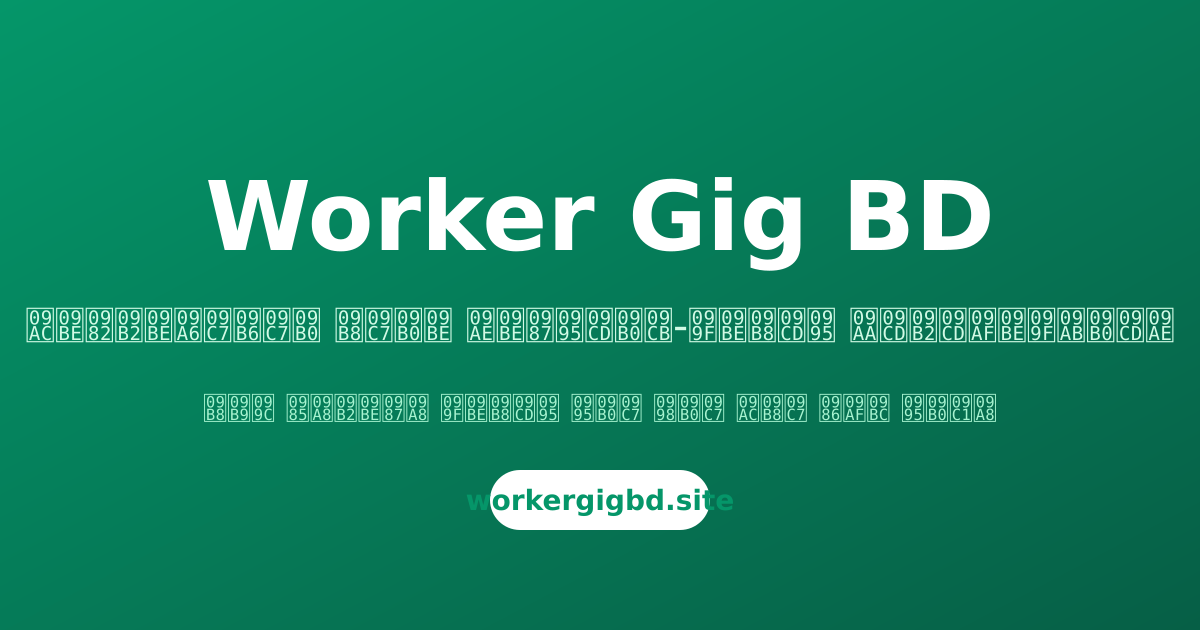
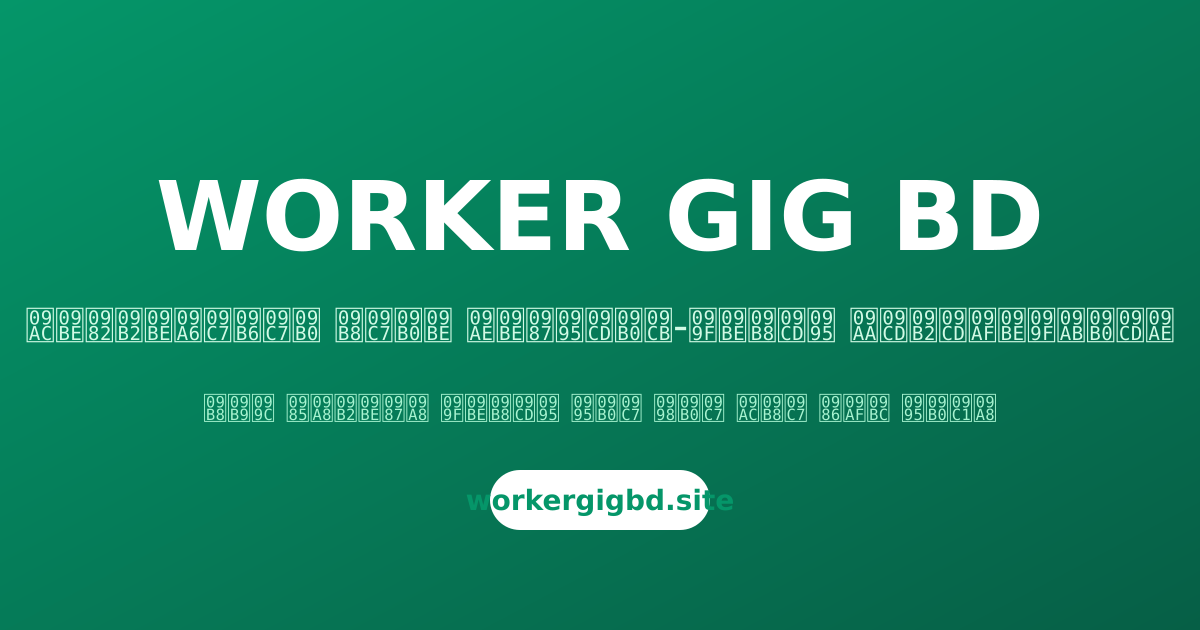
Set SEO title + uppercase brand name 'WORKER GIG BD' across site
- Set title to 'WORKER GIG BD: Best Micro Job Site for Earning'
  (in <title>, og:title, twitter:title, noscript h1, useSeo landing)
- Uppercase brand name 'WORKER GIG BD' everywhere: index.html meta,
  robots.txt, sitemap.xml, manifest, og-image.svg, all page SEO/UI text
- Update Logo component text to 'WORKER GIG' / 'BD'
- Regenerate og-image.png with new title text

Changed region(s): [[0.1233, 0.2714, 0.8633, 0.4524]]

diff --git a/index.html b/index.html
@@ -12,15 +12,15 @@
     <meta name="apple-mobile-web-app-capable" content="yes" />
     <meta name="apple-mobile-web-app-status-bar-style" content="default" />
     <meta name="mobile-web-app-capable" content="yes" />
-    <meta name="application-name" content="Worker Gig BD" />
+    <meta name="application-name" content="WORKER GIG BD" />
     <link rel="canonical" href="https://workergigbd.site/" />
 
     <!-- Primary Meta Tags -->
-    <title>Worker Gig BD — বাংলাদেশের সেরা মাইক্রো-টাস্ক প্ল্যাটফর্ম | অনলাইনে আয় করুন</title>
-    <meta name="title" content="Worker Gig BD — বাংলাদেশের সেরা মাইক্রো-টাস্ক প্ল্যাটফর্ম | অনলাইনে আয় করুন" />
-    <meta name="description" content="Worker Gig BD (workergigbd.site) বাংলাদেশের শীর্ষ মাইক্রো-টাস্ক ও ফ্রিল্যান্স প্ল্যাটফর্ম। সহজ অনলাইন টাস্ক সম্পন্ন করে ঘরে বসে আয় করুন। সাইন আপ করুন, কাজ করুন, বিকাশ/নগদে টাকা তুলুন। ১ ডলার = ১০০ টাকা।" />
+    <title>WORKER GIG BD: Best Micro Job Site for Earning</title>
+    <meta name="title" content="WORKER GIG BD: Best Micro Job Site for Earning" />
+    <meta name="description" content="WORKER GIG BD (workergigbd.site) বাংলাদেশের শীর্ষ মাইক্রো-টাস্ক ও ফ্রিল্যান্স প্ল্যাটফর্ম। সহজ অনলাইন টাস্ক সম্পন্ন করে ঘরে বসে আয় করুন। সাইন আপ করুন, কাজ করুন, বিকাশ/নগদে টাকা তুলুন। ১ ডলার = ১০০ টাকা।" />
     <meta name="keywords" content="micro task bangladesh, online earning bangladesh, freelancer bangladesh, earn money online bd, workergig, worker gig bd, micro job, অনলাইন আয়, মাইক্রো টাস্ক, ফ্রিল্যান্সিং বাংলাদেশ, ঘরে বসে আয়, online income bd, bkash earning, nagad earning" />
-    <meta name="author" content="Worker Gig BD" />
+    <meta name="author" content="WORKER GIG BD" />
     <meta name="robots" content="index, follow, max-image-preview:large, max-snippet:-1, max-video-preview:-1" />
     <meta name="googlebot" content="index, follow" />
     <meta name="language" content="Bengali" />
@@ -37,31 +37,31 @@
     <!-- Open Graph / Facebook -->
     <meta property="og:type" content="website" />
     <meta property="og:url" content="https://workergigbd.site/" />
-    <meta property="og:site_name" content="Worker Gig BD" />
-    <meta property="og:title" content="Worker Gig BD — বাংলাদেশের সেরা মাইক্রো-টাস্ক প্ল্যাটফর্ম" />
+    <meta property="og:site_name" content="WORKER GIG BD" />
+    <meta property="og:title" content="WORKER GIG BD: Best Micro Job Site for Earning" />
     <meta property="og:description" content="বাংলাদেশের শীর্ষ মাইক্রো-টাস্ক প্ল্যাটফর্ম। সহজ অনলাইন টাস্ক করে ঘরে বসে আয় করুন। বিকাশ/নগদে টাকা তুলুন।" />
     <meta property="og:image" content="https://workergigbd.site/og-image.png" />
     <meta property="og:image:secure_url" content="https://workergigbd.site/og-image.png" />
     <meta property="og:image:type" content="image/png" />
     <meta property="og:image:width" content="1200" />
     <meta property="og:image:height" content="630" />
-    <meta property="og:image:alt" content="Worker Gig BD — বাংলাদেশের সেরা মাইক্রো-টাস্ক প্ল্যাটফর্ম" />
+    <meta property="og:image:alt" content="WORKER GIG BD: Best Micro Job Site for Earning" />
     <meta property="og:locale" content="bn_BD" />
 
     <!-- Twitter -->
     <meta name="twitter:card" content="summary_large_image" />
     <meta name="twitter:url" content="https://workergigbd.site/" />
-    <meta name="twitter:title" content="Worker Gig BD — বাংলাদেশের সেরা মাইক্রো-টাস্ক প্ল্যাটফর্ম" />
+    <meta name="twitter:title" content="WORKER GIG BD: Best Micro Job Site for Earning" />
     <meta name="twitter:description" content="বাংলাদেশের শীর্ষ মাইক্রো-টাস্ক প্ল্যাটফর্ম। সহজ অনলাইন টাস্ক করে ঘরে বসে আয় করুন।" />
     <meta name="twitter:image" content="https://workergigbd.site/og-image.png" />
-    <meta name="twitter:image:alt" content="Worker Gig BD — বাংলাদেশের সেরা মাইক্রো-টাস্ক প্ল্যাটফর্ম" />
+    <meta name="twitter:image:alt" content="WORKER GIG BD: Best Micro Job Site for Earning" />
 
     <!-- Structured Data: Organization -->
     <script type="application/ld+json">
     {
       "@context": "https://schema.org",
       "@type": "Organization",
-      "name": "Worker Gig BD",
+      "name": "WORKER GIG BD",
       "url": "https://workergigbd.site",
       "logo": "https://workergigbd.site/favicon-32x32.png",
       "description": "বাংলাদেশের শীর্ষ মাইক্রো-টাস্ক ও ফ্রিল্যান্স প্ল্যাটফর্ম। সহজ অনলাইন টাস্ক সম্পন্ন করে ঘরে বসে আয় করুন।",
@@ -75,7 +75,7 @@
     {
       "@context": "https://schema.org",
       "@type": "WebSite",
-      "name": "Worker Gig BD",
+      "name": "WORKER GIG BD",
       "url": "https://workergigbd.site",
       "inLanguage": "bn-BD",
       "potentialAction": {
@@ -94,7 +94,7 @@
       "serviceType": "Micro-task platform",
       "provider": {
         "@type": "Organization",
-        "name": "Worker Gig BD",
+        "name": "WORKER GIG BD",
         "url": "https://workergigbd.site"
       },
       "areaServed": { "@type": "Country", "name": "Bangladesh" },
@@ -110,10 +110,10 @@
       "mainEntity": [
         {
           "@type": "Question",
-          "name": "Worker Gig BD কী?",
+          "name": "WORKER GIG BD কী?",
           "acceptedAnswer": {
             "@type": "Answer",
-            "text": "Worker Gig BD বাংলাদেশের একটি মাইক্রো-টাস্ক ও ফ্রিল্যান্স প্ল্যাটফর্ম, যেখানে আপনি সহজ অনলাইন টাস্ক (ফেসবুক লাইক, সাইন আপ, সার্ভে ইত্যাদি) সম্পন্ন করে ঘরে বসে আয় করতে পারেন।"
+            "text": "WORKER GIG BD বাংলাদেশের একটি মাইক্রো-টাস্ক ও ফ্রিল্যান্স প্ল্যাটফর্ম, যেখানে আপনি সহজ অনলাইন টাস্ক (ফেসবুক লাইক, সাইন আপ, সার্ভে ইত্যাদি) সম্পন্ন করে ঘরে বসে আয় করতে পারেন।"
           }
         },
         {
@@ -148,8 +148,8 @@
     <div id="root"></div>
     <noscript>
       <div style="padding:24px;font-family:sans-serif;max-width:680px;margin:0 auto">
-        <h1>Worker Gig BD — বাংলাদেশের সেরা মাইক্রো-টাস্ক প্ল্যাটফর্ম</h1>
-        <p>Worker Gig BD (workergigbd.site) বাংলাদেশের শীর্ষ মাইক্রো-টাস্ক ও ফ্রিল্যান্স প্ল্যাটফর্ম। সহজ অনলাইন টাস্ক সম্পন্ন করে ঘরে বসে আয় করুন। সাইন আপ করুন, কাজ করুন, বিকাশ/নগদে টাকা তুলুন। অনুগ্রহ করে জাভাস্ক্রিপ্ট চালু করে সাইট ব্যবহার করুন।</p>
+        <h1>WORKER GIG BD: Best Micro Job Site for Earning</h1>
+        <p>WORKER GIG BD (workergigbd.site) বাংলাদেশের শীর্ষ মাইক্রো-টাস্ক ও ফ্রিল্যান্স প্ল্যাটফর্ম। সহজ অনলাইন টাস্ক সম্পন্ন করে ঘরে বসে আয় করুন। সাইন আপ করুন, কাজ করুন, বিকাশ/নগদে টাকা তুলুন। অনুগ্রহ করে জাভাস্ক্রিপ্ট চালু করে সাইট ব্যবহার করুন।</p>
         <p><a href="/login">লগইন</a> · <a href="/signup">সাইন আপ</a></p>
       </div>
     </noscript>

diff --git a/src/pages/LandingPage.tsx b/src/pages/LandingPage.tsx
@@ -38,8 +38,8 @@ const steps = [
 
 export function LandingPage() {
   useSeo({
-    title: 'Worker Gig BD — বাংলাদেশের সেরা মাইক্রো-টাস্ক প্ল্যাটফর্ম | অনলাইনে আয় করুন',
-    description: 'Worker Gig BD (workergigbd.site) বাংলাদেশের শীর্ষ মাইক্রো-টাস্ক ও ফ্রিল্যান্স প্ল্যাটফর্ম। সহজ অনলাইন টাস্ক সম্পন্ন করে ঘরে বসে আয় করুন। সাইন আপ করুন, কাজ করুন, বিকাশ/নগদে টাকা তুলুন। ১ ডলার = ১০০ টাকা।',
+    title: 'WORKER GIG BD: Best Micro Job Site for Earning',
+    description: 'WORKER GIG BD (workergigbd.site) বাংলাদেশের শীর্ষ মাইক্রো-টাস্ক ও ফ্রিল্যান্স প্ল্যাটফর্ম। সহজ অনলাইন টাস্ক সম্পন্ন করে ঘরে বসে আয় করুন। সাইন আপ করুন, কাজ করুন, বিকাশ/নগদে টাকা তুলুন। ১ ডলার = ১০০ টাকা।',
     path: '/',
   });
   return (
@@ -196,7 +196,7 @@ export function LandingPage() {
         <div className="mx-auto max-w-7xl px-4 sm:px-6 lg:px-8">
           <div className="text-center mb-14">
             <h2 className="font-heading text-3xl font-bold text-gray-900 sm:text-4xl">
-              Why Choose Worker Gig BD?
+              Why Choose WORKER GIG BD?
             </h2>
             <p className="mt-3 text-lg text-gray-600">
               Everything you need to earn money online — in one platform
@@ -227,17 +227,17 @@ export function LandingPage() {
               সাধারণ জিজ্ঞাসা
             </h2>
             <p className="mt-3 text-lg text-gray-600">
-              Worker Gig BD সম্পর্কে যে প্রশ্নগুলো সবচেয়ে বেশি করা হয়
+              WORKER GIG BD সম্পর্কে যে প্রশ্নগুলো সবচেয়ে বেশি করা হয়
             </p>
           </div>
           <div className="space-y-4">
             <details className="group rounded-xl border border-gray-200 bg-white p-5 shadow-sm">
               <summary className="flex cursor-pointer items-center justify-between font-semibold text-gray-900">
-                Worker Gig BD কী?
+                WORKER GIG BD কী?
                 <span className="text-primary-600 transition-transform group-open:rotate-45">+</span>
               </summary>
               <p className="mt-3 text-sm leading-relaxed text-gray-600">
-                Worker Gig BD বাংলাদেশের একটি মাইক্রো-টাস্ক ও ফ্রিল্যান্স প্ল্যাটফর্ম, যেখানে আপনি সহজ অনলাইন টাস্ক (ফেসবুক লাইক, সাইন আপ, সার্ভে ইত্যাদি) সম্পন্ন করে ঘরে বসে আয় করতে পারেন।
+                WORKER GIG BD বাংলাদেশের একটি মাইক্রো-টাস্ক ও ফ্রিল্যান্স প্ল্যাটফর্ম, যেখানে আপনি সহজ অনলাইন টাস্ক (ফেসবুক লাইক, সাইন আপ, সার্ভে ইত্যাদি) সম্পন্ন করে ঘরে বসে আয় করতে পারেন।
               </p>
             </details>
             <details className="group rounded-xl border border-gray-200 bg-white p-5 shadow-sm">
@@ -278,7 +278,7 @@ export function LandingPage() {
             Ready to Start Earning?
           </h2>
           <p className="mt-4 text-lg text-gray-600">
-            Join Worker Gig BD today and turn your free time into income.
+            Join WORKER GIG BD today and turn your free time into income.
             It's free to sign up and start working immediately.
           </p>
           <div className="mt-8 flex flex-wrap justify-center gap-4">
@@ -340,7 +340,7 @@ export function LandingPage() {
             </div>
           </div>
           <div className="mt-10 border-t border-gray-200 pt-6 text-center text-sm text-gray-500">
-            © 2026 Worker Gig BD. All rights reserved.
+            © 2026 WORKER GIG BD. All rights reserved.
           </div>
         </div>
       </footer>

diff --git a/src/pages/TermsOfServicePage.tsx b/src/pages/TermsOfServicePage.tsx
@@ -4,18 +4,18 @@ export function TermsOfServicePage() {
   return (
     <LegalPage
       title="টার্মস অফ সার্ভিস"
-      description="Worker Gig BD টার্মস অফ সার্ভিস — প্ল্যাটফর্ম ব্যবহারের নিয়মাবলি ও শর্তাবলি।"
+      description="WORKER GIG BD টার্মস অফ সার্ভিস — প্ল্যাটফর্ম ব্যবহারের নিয়মাবলি ও শর্তাবলি।"
       path="/terms-of-service"
       updated="১১ আগস্ট, ২০২৬"
     >
       <p>
-        Worker Gig BD (workergigbd.site) ব্যবহার করে আপনি নিচের শর্তাবলিতে সম্মত
+        WORKER GIG BD (workergigbd.site) ব্যবহার করে আপনি নিচের শর্তাবলিতে সম্মত
         হচ্ছেন। যদি আপনি এই শর্তে রাজি না হন, তাহলে সেবা ব্যবহার করবেন না।
       </p>
 
       <h2>১. সেবার বিবরণ</h2>
       <p>
-        Worker Gig BD একটি মাইক্রো-টাস্ক ও ফ্রিল্যান্স প্ল্যাটফর্ম যেখানে ইউজাররা
+        WORKER GIG BD একটি মাইক্রো-টাস্ক ও ফ্রিল্যান্স প্ল্যাটফর্ম যেখানে ইউজাররা
         অনলাইন টাস্ক সম্পন্ন করে আয় করতে পারেন এবং টাস্ক পোস্ট করতে পারেন।
         পেমেন্ট বিকাশ, নগদ ও রকেট-এর মাধ্যমে হয় (১ ডলার = ১০০ টাকা)।
       </p>

diff --git a/src/pages/SignupPage.tsx b/src/pages/SignupPage.tsx
@@ -9,8 +9,8 @@ import { useSeo } from '@/lib/useSeo';
 
 export function SignupPage() {
   useSeo({
-    title: 'সাইন আপ — Worker Gig BD | ফ্রি রেজিস্ট্রেশন করুন ও আয় শুরু করুন',
-    description: 'Worker Gig BD-তে বিনামূল্যে সাইন আপ করুন। রেফার করে বোনাস পান, অনলাইন মাইক্রো-টাস্ক করে ঘরে বসে আয় করুন। বাংলাদেশের শীর্ষ মাইক্রো-টাস্ক প্ল্যাটফর্ম।',
+    title: 'সাইন আপ — WORKER GIG BD | ফ্রি রেজিস্ট্রেশন করুন ও আয় শুরু করুন',
+    description: 'WORKER GIG BD-তে বিনামূল্যে সাইন আপ করুন। রেফার করে বোনাস পান, অনলাইন মাইক্রো-টাস্ক করে ঘরে বসে আয় করুন। বাংলাদেশের শীর্ষ মাইক্রো-টাস্ক প্ল্যাটফর্ম।',
     path: '/signup',
   });
   const navigate = useNavigate();
@@ -166,7 +166,7 @@ export function SignupPage() {
         </div>
 
         <p className="relative text-sm text-primary-200">
-          © 2026 Worker Gig BD. All rights reserved.
+          © 2026 WORKER GIG BD. All rights reserved.
         </p>
       </div>
     </div>

diff --git a/src/pages/dashboard/PostJobPage.tsx b/src/pages/dashboard/PostJobPage.tsx
@@ -11,8 +11,8 @@ import { useSeo } from '@/lib/useSeo';
 
 export function PostJobPage() {
   useSeo({
-    title: 'কাজ পোস্ট করুন — Worker Gig BD | অনলাইন কাজ পোস্ট ও ওয়ার্কার নিয়োগ',
-    description: 'Worker Gig BD-তে কাজ পোস্ট করুন এবং সারা বাংলাদেশের ওয়ার্কারদের কাছ থেকে সহজে আপনার মাইক্রো-টাস্ক সম্পন্ন করান। ফেসবুক লাইক, সাইন আপ, সার্ভে ইত্যাদি কাজ পোস্ট করুন।',
+    title: 'কাজ পোস্ট করুন — WORKER GIG BD | অনলাইন কাজ পোস্ট ও ওয়ার্কার নিয়োগ',
+    description: 'WORKER GIG BD-তে কাজ পোস্ট করুন এবং সারা বাংলাদেশের ওয়ার্কারদের কাছ থেকে সহজে আপনার মাইক্রো-টাস্ক সম্পন্ন করান। ফেসবুক লাইক, সাইন আপ, সার্ভে ইত্যাদি কাজ পোস্ট করুন।',
     path: '/dashboard/post-job',
   });
   const { profile, refreshProfile } = useAuth();

diff --git a/src/pages/LoginPage.tsx b/src/pages/LoginPage.tsx
@@ -9,8 +9,8 @@ import { useSeo } from '@/lib/useSeo';
 
 export function LoginPage() {
   useSeo({
-    title: 'লগইন — Worker Gig BD | অনলাইন মাইক্রো-টাস্ক প্ল্যাটফর্ম',
-    description: 'Worker Gig BD-তে লগইন করুন এবং অনলাইন মাইক্রো-টাস্ক সম্পন্ন করে আয় করা শুরু করুন। বাংলাদেশের শীর্ষ মাইক্রো-টাস্ক প্ল্যাটফর্ম।',
+    title: 'লগইন — WORKER GIG BD | অনলাইন মাইক্রো-টাস্ক প্ল্যাটফর্ম',
+    description: 'WORKER GIG BD-তে লগইন করুন এবং অনলাইন মাইক্রো-টাস্ক সম্পন্ন করে আয় করা শুরু করুন। বাংলাদেশের শীর্ষ মাইক্রো-টাস্ক প্ল্যাটফর্ম।',
     path: '/login',
   });
   const navigate = useNavigate();
@@ -65,7 +65,7 @@ export function LoginPage() {
         </div>
 
         <p className="relative text-sm text-primary-200">
-          © 2026 Worker Gig BD. All rights reserved.
+          © 2026 WORKER GIG BD. All rights reserved.
         </p>
       </div>
 

diff --git a/src/pages/PrivacyPolicyPage.tsx b/src/pages/PrivacyPolicyPage.tsx
@@ -4,12 +4,12 @@ export function PrivacyPolicyPage() {
   return (
     <LegalPage
       title="প্রাইভেসি পলিসি"
-      description="Worker Gig BD প্রাইভেসি পলিসি — আমরা আপনার ব্যক্তিগত তথ্য কীভাবে সংগ্রহ, ব্যবহার ও সুরক্ষিত রাখি।"
+      description="WORKER GIG BD প্রাইভেসি পলিসি — আমরা আপনার ব্যক্তিগত তথ্য কীভাবে সংগ্রহ, ব্যবহার ও সুরক্ষিত রাখি।"
       path="/privacy-policy"
       updated="১১ আগস্ট, ২০২৬"
     >
       <p>
-        Worker Gig BD (workergigbd.site) আপনার প্রাইভেসি সম্পর্কে গুরুত্বের সাথে আছে। এই
+        WORKER GIG BD (workergigbd.site) আপনার প্রাইভেসি সম্পর্কে গুরুত্বের সাথে আছে। এই
         পলিসি ব্যাখ্যা করে আমরা কী তথ্য সংগ্রহ করি, কীভাবে তা ব্যবহার করি এবং কীভাবে
         সুরক্ষিত রাখি।
       </p>

diff --git a/src/pages/dashboard/FindJobsPage.tsx b/src/pages/dashboard/FindJobsPage.tsx
@@ -26,8 +26,8 @@ const sortOptions = [
 
 export function FindJobsPage() {
   useSeo({
-    title: 'কাজ খুঁজুন — Worker Gig BD | অনলাইন মাইক্রো-টাস্ক ও ফ্রিল্যান্স কাজ',
-    description: 'Worker Gig BD-তে পাওয়া সহজ অনলাইন মাইক্রো-টাস্ক ও ফ্রিল্যান্স কাজ ব্রাউজ করুন। ফেসবুক, ইউটিউব, সাইন আপ, সার্ভে, কমেন্ট ইত্যাদি কাজ করে আয় করুন।',
+    title: 'কাজ খুঁজুন — WORKER GIG BD | অনলাইন মাইক্রো-টাস্ক ও ফ্রিল্যান্স কাজ',
+    description: 'WORKER GIG BD-তে পাওয়া সহজ অনলাইন মাইক্রো-টাস্ক ও ফ্রিল্যান্স কাজ ব্রাউজ করুন। ফেসবুক, ইউটিউব, সাইন আপ, সার্ভে, কমেন্ট ইত্যাদি কাজ করে আয় করুন।',
     path: '/dashboard/find-jobs',
   });
   const { profile } = useAuth();

diff --git a/src/pages/dashboard/ShareEarnPage.tsx b/src/pages/dashboard/ShareEarnPage.tsx
@@ -10,8 +10,8 @@ import { useSeo } from '@/lib/useSeo';
 
 export function ShareEarnPage() {
   useSeo({
-    title: 'শেয়ার ও আয় — Worker Gig BD | রেফার করে বোনাস পান',
-    description: 'Worker Gig BD-তে আপনার রেফার লিংক শেয়ার করে বোনাস আয় করুন। প্রতিটি রেফারেল থেকে আয় পান এবং বন্ধুদের সাথে মাইক্রো-টাস্ক প্ল্যাটফর্ম পরিচয় করিয়ে দিন।',
+    title: 'শেয়ার ও আয় — WORKER GIG BD | রেফার করে বোনাস পান',
+    description: 'WORKER GIG BD-তে আপনার রেফার লিংক শেয়ার করে বোনাস আয় করুন। প্রতিটি রেফারেল থেকে আয় পান এবং বন্ধুদের সাথে মাইক্রো-টাস্ক প্ল্যাটফর্ম পরিচয় করিয়ে দিন।',
     path: '/dashboard/share-earn',
   });
   const { profile } = useAuth();

diff --git a/src/pages/dashboard/DepositPage.tsx b/src/pages/dashboard/DepositPage.tsx
@@ -13,8 +13,8 @@ import { useSeo } from '@/lib/useSeo';
 
 export function DepositPage() {
   useSeo({
-    title: 'ডিপোজিট — Worker Gig BD',
-    description: 'Worker Gig BD অ্যাকাউন্টে টাকা ডিপোজিট করুন। ১ ডলার = ১১০ টাকা।',
+    title: 'ডিপোজিট — WORKER GIG BD',
+    description: 'WORKER GIG BD অ্যাকাউন্টে টাকা ডিপোজিট করুন। ১ ডলার = ১১০ টাকা।',
     path: '/dashboard/deposit',
     noindex: true,
   });

diff --git a/src/pages/dashboard/WithdrawPage.tsx b/src/pages/dashboard/WithdrawPage.tsx
@@ -13,8 +13,8 @@ import { useSeo } from '@/lib/useSeo';
 
 export function WithdrawPage() {
   useSeo({
-    title: 'উইথড্র — Worker Gig BD',
-    description: 'Worker Gig BD থেকে আয়কৃত টাকা উইথড্র করুন। ১ ডলার = ১০০ টাকা।',
+    title: 'উইথড্র — WORKER GIG BD',
+    description: 'WORKER GIG BD থেকে আয়কৃত টাকা উইথড্র করুন। ১ ডলার = ১০০ টাকা।',
     path: '/dashboard/withdraw',
     noindex: true,
   });

diff --git a/src/pages/LegalPage.tsx b/src/pages/LegalPage.tsx
@@ -72,7 +72,7 @@ export function LegalPage({ title, description, path, updated, children }: Legal
 
       <footer className="border-t border-gray-200 bg-gray-50 py-8">
         <div className="mx-auto max-w-4xl px-4 text-center text-sm text-gray-500 sm:px-6">
-          © 2026 Worker Gig BD. সর্বস্বত্র সংরক্ষিত।
+          © 2026 WORKER GIG BD. সর্বস্বত্র সংরক্ষিত।
         </div>
       </footer>
     </div>
